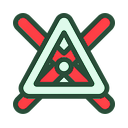
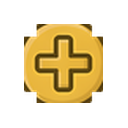
v1.17.42 art(blocks): 子雷图案重设计——父雷中心徽章，去三角与红叉
- 子雷 glyph 改为从父雷图案裁取中心「圆点+短十字」徽章（40% 硬裁剪
  + 四角斜线残段清理），归一化到 62% 占比，与父雷同族金色、无三角无红叉
- 与父雷区分：split 保留四条对角线+端点小圆，sub 为紧凑徽章
- tint/<color>/sub.png 同步更新（金色不染来源色）；accept_E 矩阵刷新
- 尝试过的路线：圆形渐隐遮罩（发虚成光晕，弃）、连通域清岛（线头与主岛连通清不掉，弃）

diff --git a/tools/_glyph_tint.py b/tools/_glyph_tint.py
@@ -72,10 +72,10 @@ def tint_all():
         # 父雷：可选保留金色
         src = Image.open(os.path.join(GLYPH_OUT, 'glyph_split.png'))
         made[(color, 'split')] = src if SPLIT_GOLD_KEEP else made[(color, 'split')]
-        # 子雷：三角主体染色，红叉保留
+        # 子雷：v1.17.42 起为父雷中心徽章（金色，与父雷同族），不染来源色
         src = Image.open(os.path.join(GLYPH_OUT, 'glyph_sub.png'))
-        made[(color, 'sub')] = tint_sub(src, tint, hi, dark)
-        made[(color, 'sub')].save(os.path.join(d, 'sub.png'))
+        made[(color, 'sub')] = src
+        src.save(os.path.join(d, 'sub.png'))
         # rainbow 不染
         sh = Image.open(os.path.join(GLYPH_OUT, 'glyph_rainbow.png'))
         sh.save(os.path.join(d, 'rainbow.png'))
